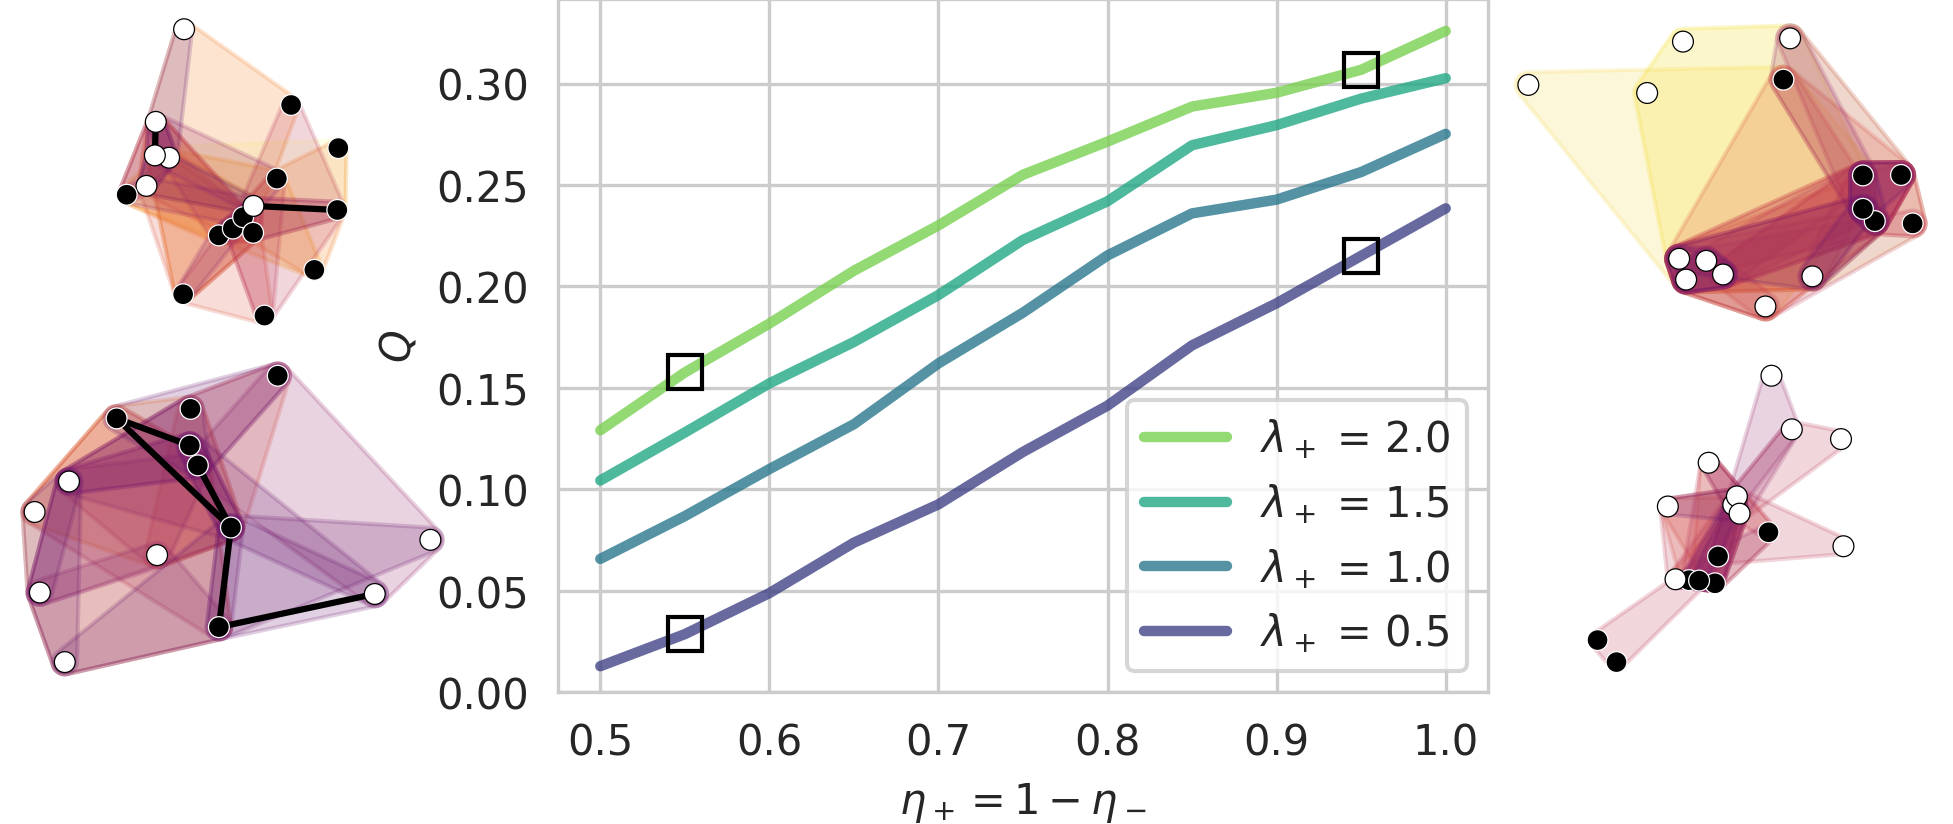
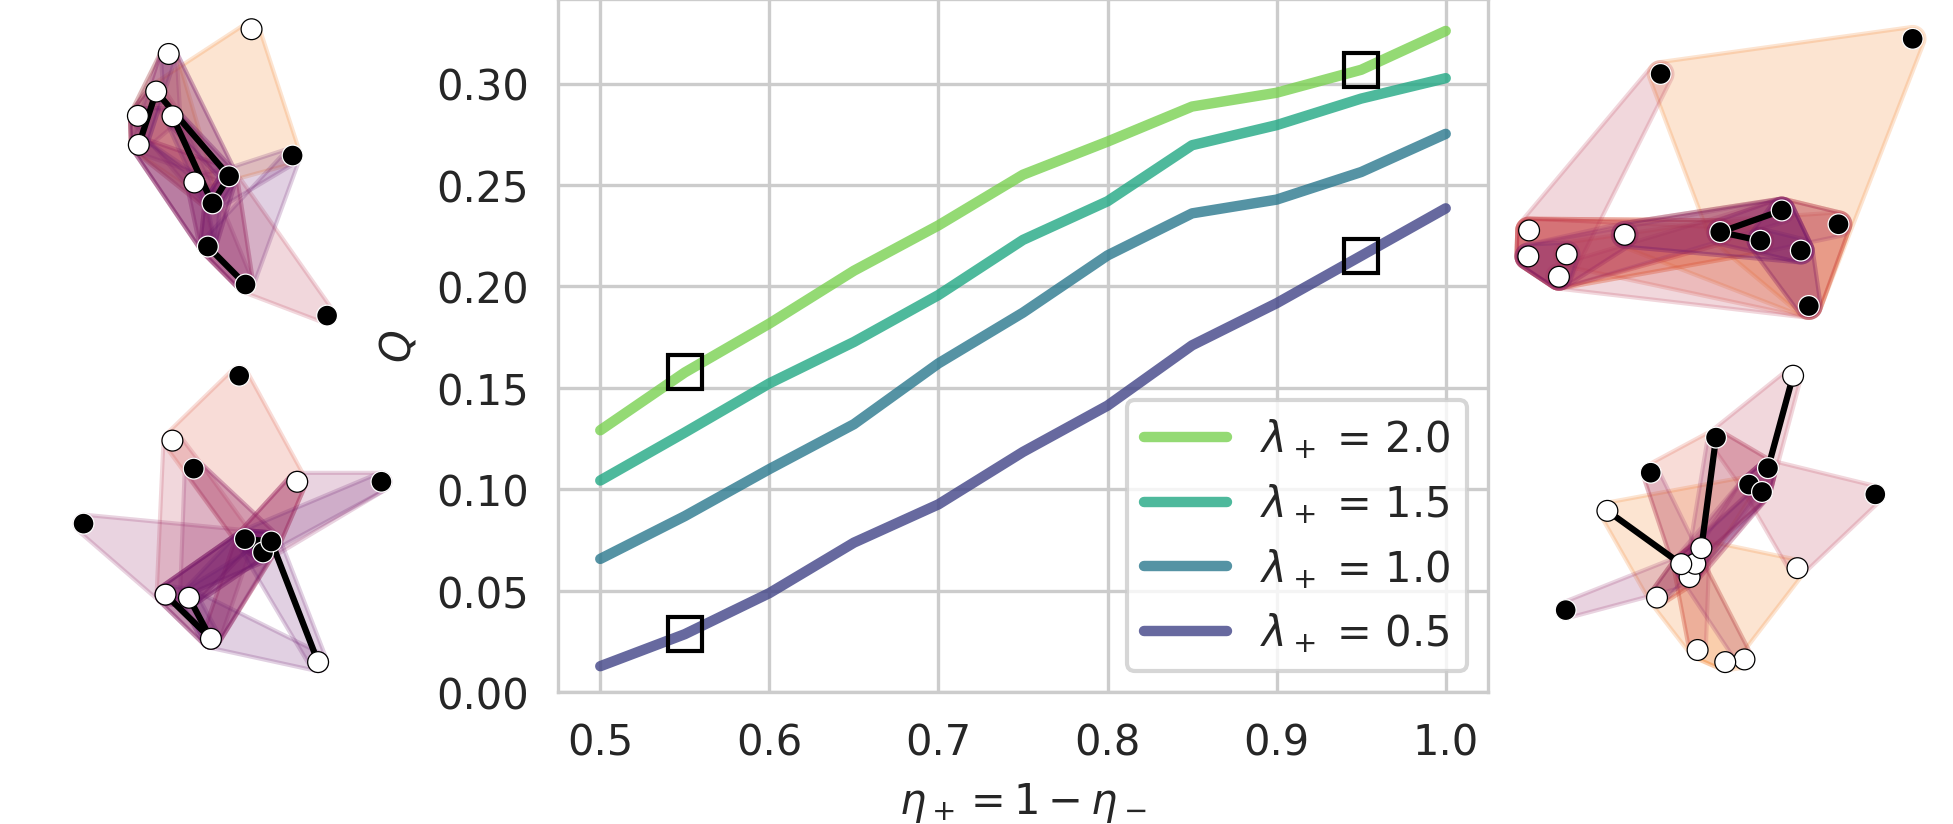
simulations pinned to expected values

diff --git a/scripts/community-structure-viz.py b/scripts/community-structure-viz.py
@@ -47,7 +47,23 @@ for i in range(2):
 plt.savefig("fig/community-structure-sims-line.png", dpi=300, bbox_inches="tight")
 
 
+
+
 # COMBINED FIG 
+
+
+def clique_projection_modularity(GH): 
+    """
+    unweighted so possibly not that reliable, would want to use weighted graph instead but not implemented in XGI. Not a hard implementation but likely slow. 
+    """
+    
+    A = xgi.linalg.hypergraph_matrix.adjacency_matrix(GH.H, weighted = True)
+    z = np.array(GH.get_labels())
+    k = A.sum(axis=1)
+    m = A.sum() / 2
+    Delta = z[:, None] == z[None, :] 
+    return 1/(2*m)*((A - np.outer(k, k) / (2 * m))*Delta).sum()
+
 
 fig, ax = plt.subplots(1, 1, figsize=(4, 3))
 
@@ -103,60 +119,62 @@ choices_to_highlight = [
 
 for i, choice in enumerate(choices_to_highlight):
     
-    point = sub[(sub["theta_1"] == choice["theta_1"]) & (sub["theta_3"] == choice["theta_3"])]
-    # hollow square marker
-    ax.plot(point["theta_1"], point[col_to_plot], marker = "s", color = "black", markersize = 8, fillstyle = 'none', zorder = 1000)
-    
-    
-    eta_plus = choice["theta_1"]
-    eta_minus = 1 - eta_plus
-    lambda_plus = choice["theta_3"]
-    lambda_minus = 0.5
-    gamma_plus = 0.2
-    gamma_minus = 0.1 
-    
+   point = sub[(sub["theta_1"] == choice["theta_1"]) & (sub["theta_3"] == choice["theta_3"])]
+   # hollow square marker
+   ax.plot(point["theta_1"], point[col_to_plot], marker = "s", color = "black", markersize = 8, fillstyle = 'none', zorder = 1000)
+   
+   
+   eta_plus = choice["theta_1"]
+   eta_minus = 1 - eta_plus
+   lambda_plus = choice["theta_3"]
+   lambda_minus = 0.5
+   gamma_plus = 0.2
+   gamma_minus = 0.1 
+   
 
-    inset_ax = [inset_1, inset_2, inset_3, inset_4][i]
+   inset_ax = [inset_1, inset_2, inset_3, inset_4][i]
     
     
+   expected_modularity = point[col_to_plot].values[0]
+   actual_modularity = -10
+   
+   while not np.isclose(expected_modularity, actual_modularity, atol = 0.001):
     
+      H = xgi.Hypergraph([[0, 1, 2], [3, 4, 5]])
+      H.set_node_attributes({0 : 0, 1 : 0, 2 : 0, 3 : 1, 4 : 1, 5 : 1}, name = "label")
+      growing_hypergraph = GH(H, [0, 1], eta_plus, eta_minus)
+      growing_hypergraph.add_hyperedge(n_steps, gamma_plus, gamma_minus, lambda_plus, lambda_minus)
+      actual_modularity = clique_projection_modularity(growing_hypergraph)
+      print(f"Expected modularity: {expected_modularity}, actual modularity: {actual_modularity}") 
     
-    
-    H = xgi.Hypergraph([[0, 1, 2], [3, 4, 5]])
-    H.set_node_attributes({0 : 0, 1 : 0, 2 : 0, 3 : 1, 4 : 1, 5 : 1}, name = "label")
-    growing_hypergraph = GH(H, [0, 1], eta_plus, eta_minus)
-    growing_hypergraph.add_hyperedge(n_steps, gamma_plus, gamma_minus, lambda_plus, lambda_minus)
-    
-    labels = growing_hypergraph.get_labels()
-    H = growing_hypergraph.H
-    
-    
-    H.cleanup(isolates = True)
-    H.set_edge_attributes({e : H.edges.size(e) for e in H.edges}, name = "size")
-    
-    H = growing_hypergraph.H
-    pos = xgi.barycenter_spring_layout(H, seed=1)
-    pos = {i : 0.1*pos[i] for i in H.nodes}
-    
-    node_border_colors = ["black" if labels[i] == 0 else "white" for i in H.nodes]        
+   labels = growing_hypergraph.get_labels()
+   H = growing_hypergraph.H
+   
+   
+   H.cleanup(isolates = True)
+   H.set_edge_attributes({e : H.edges.size(e) for e in H.edges}, name = "size")
+   
+   H = growing_hypergraph.H
+   pos = xgi.barycenter_spring_layout(H, seed=1)
+   pos = {i : 0.1*pos[i] for i in H.nodes}
+   
+   node_border_colors = ["black" if labels[i] == 0 else "white" for i in H.nodes]        
 
-    xgi.draw(H, 
-            pos = pos,
-            node_fc=labels, 
-            ax=inset_ax,
-            node_fc_cmap=plt.cm.gray_r, 
-            edge_fc_cmap=plt.cm.inferno,
-            edge_vmin=0, edge_vmax=10,
-            edge_lw = 0,
-            node_ec = node_border_colors,
-            node_lw = .3, 
-            node_size = 5,
-            hull = True, 
-            radius = 0.005, 
-            alpha = 0.2,
-            )
-
-
+   xgi.draw(H, 
+         pos = pos,
+         node_fc=labels, 
+         ax=inset_ax,
+         node_fc_cmap=plt.cm.gray_r, 
+         edge_fc_cmap=plt.cm.inferno,
+         edge_vmin=0, edge_vmax=10,
+         edge_lw = 0,
+         node_ec = node_border_colors,
+         node_lw = .3, 
+         node_size = 5,
+         hull = True, 
+         radius = 0.005, 
+         alpha = 0.2,
+         )
 
 plt.savefig("fig/community-structure-sims-combined.png", dpi=300, bbox_inches="tight", pad_inches=0.0)
 
